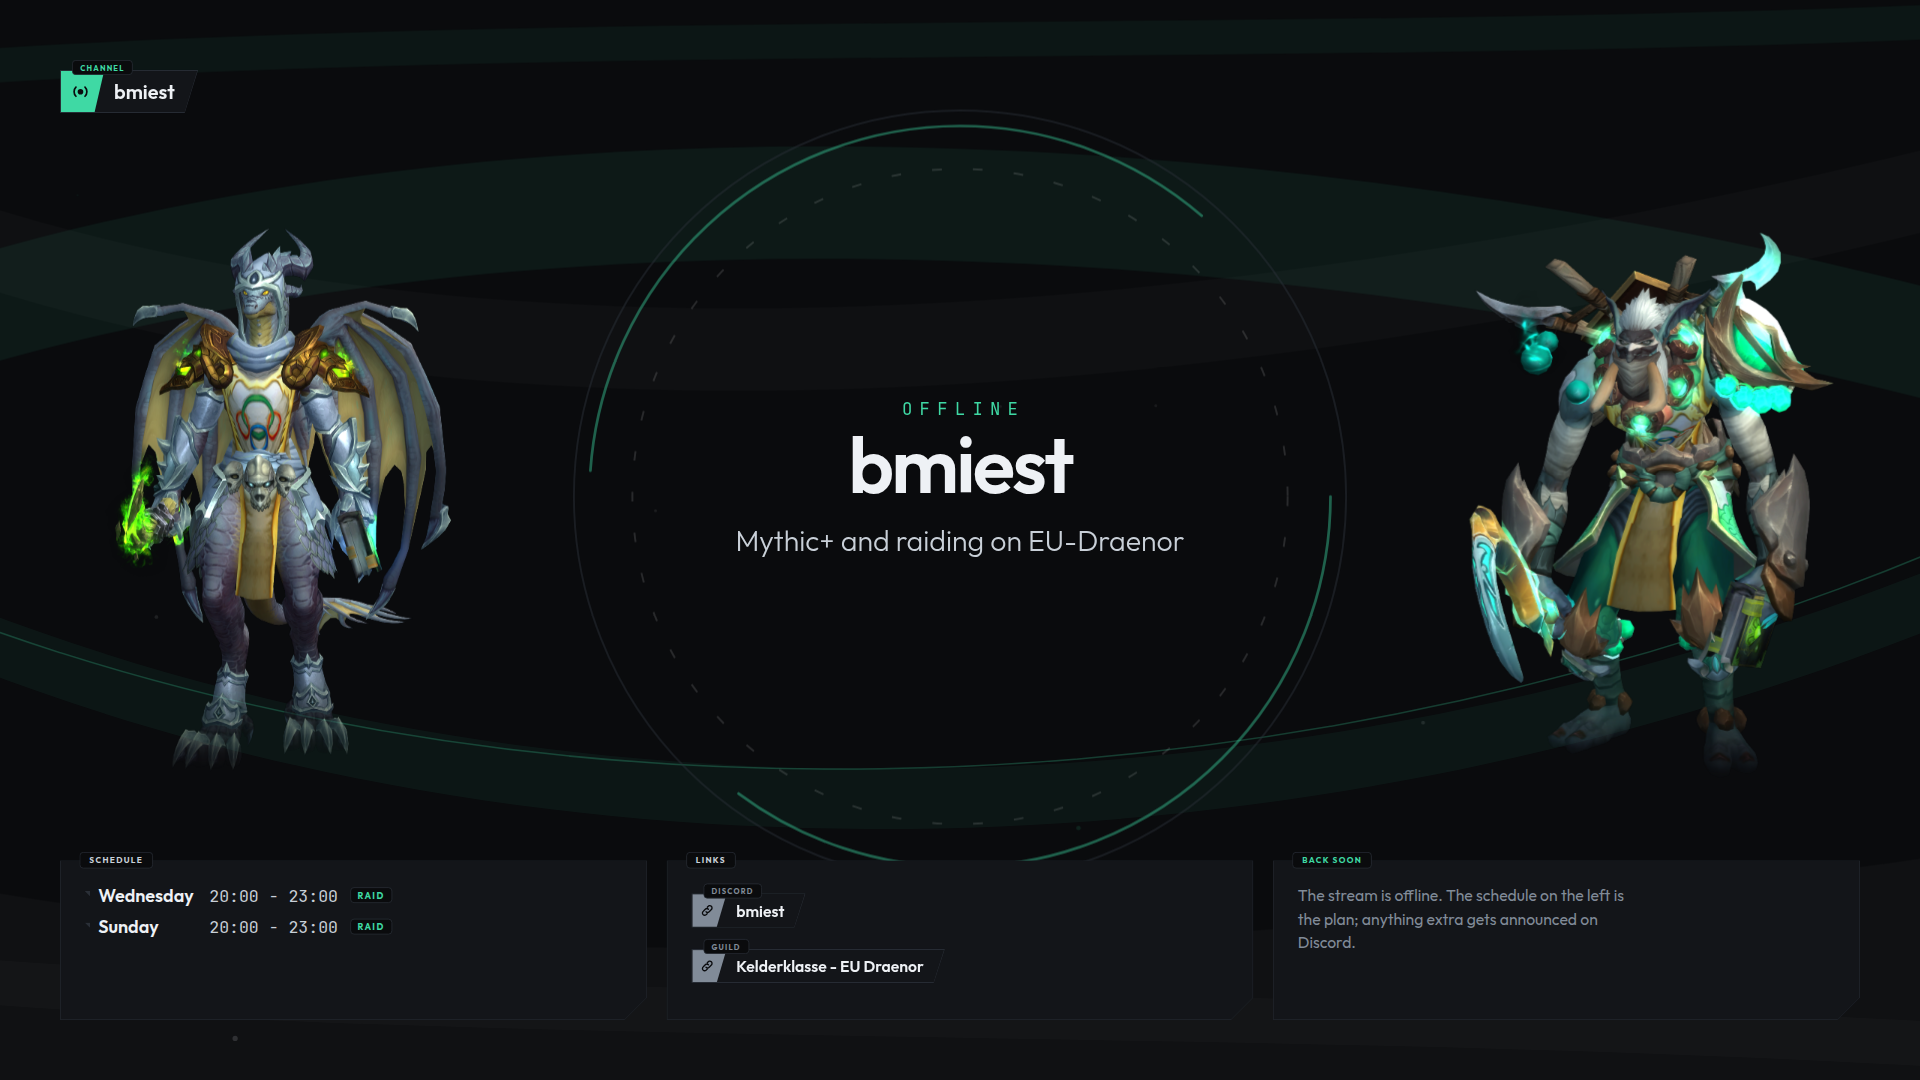
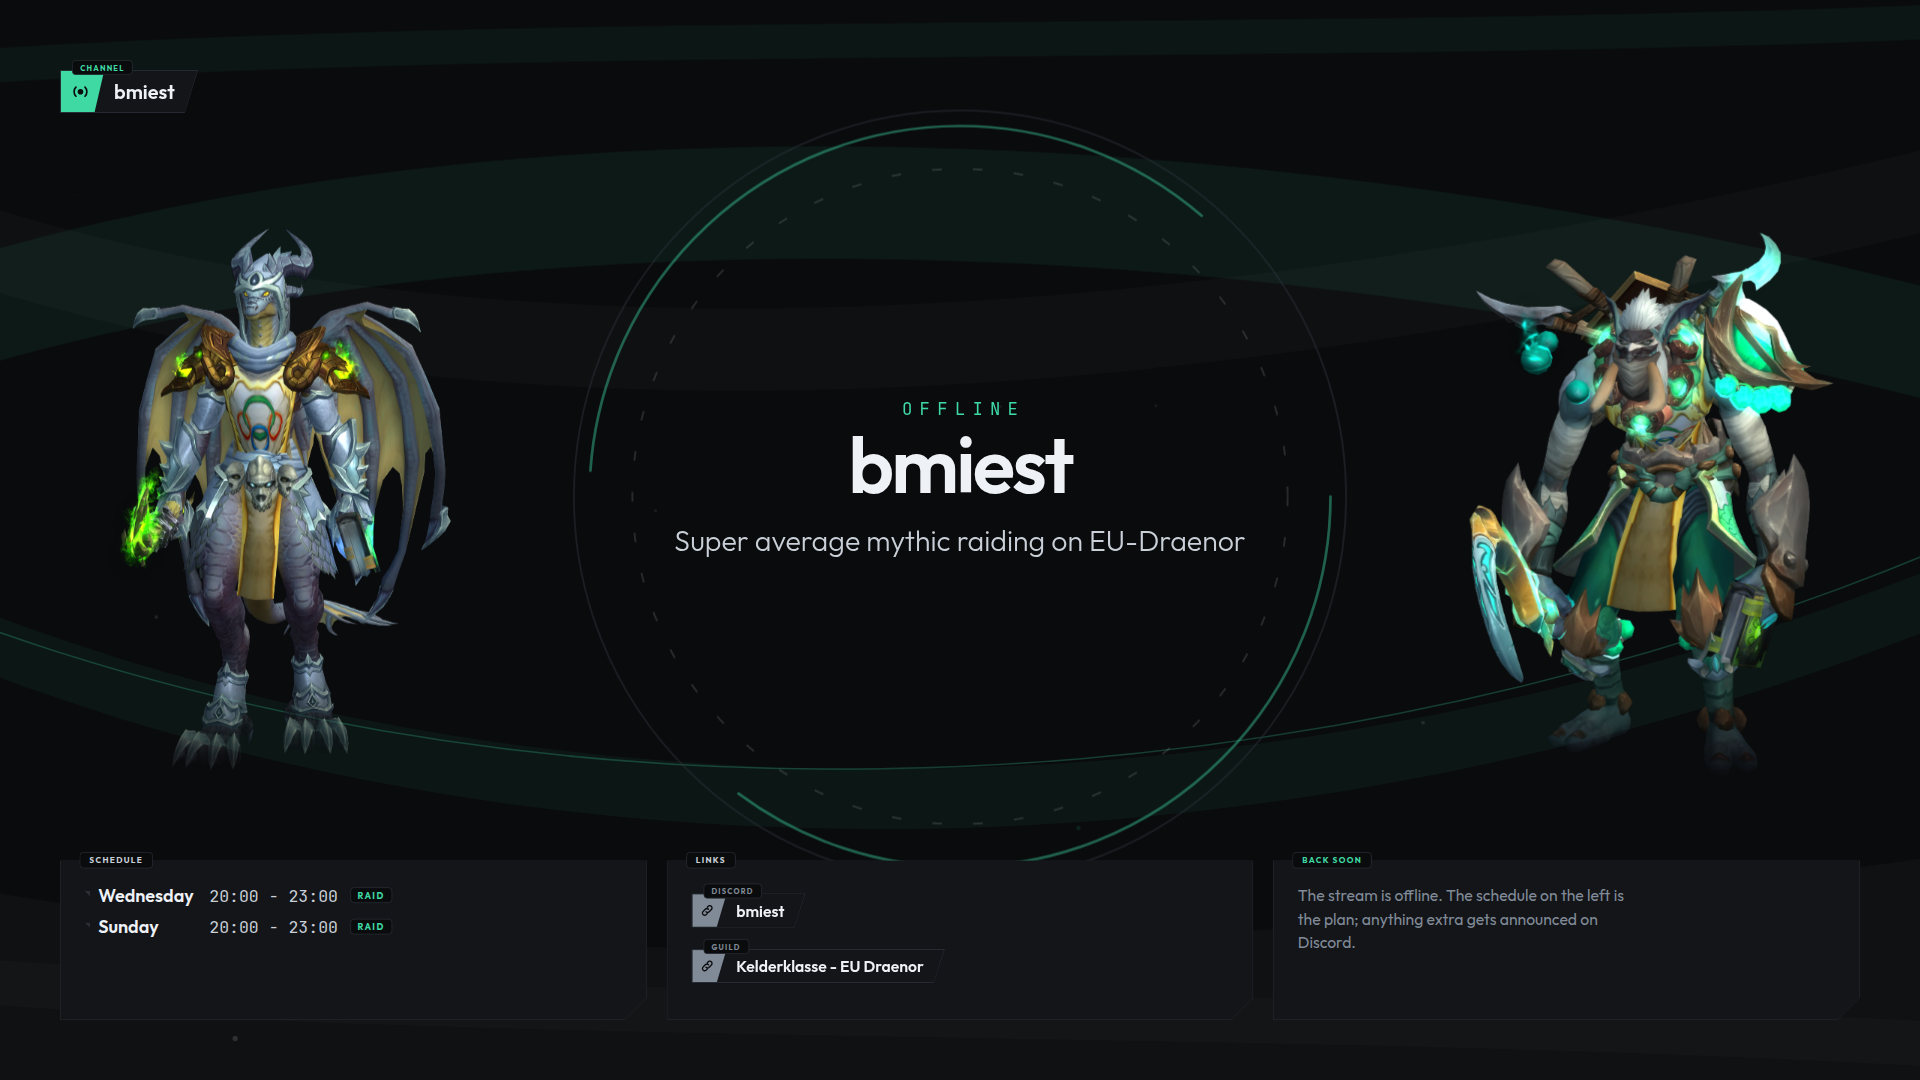
Nieuwe tagline, en de beloning heet priest/monk wig
De tagline voedt beide kanaalgraphics, dus offline.png en
profile-banner.png zijn allebei opnieuw gerenderd.

Claude-Session: https://claude.ai/code/session_01THBMk4rdUHc8cEswxabW42

Changed region(s): [[0.0625, 0.2444, 0.2188, 0.5806], [0.3438, 0.4889, 0.6562, 0.5194]]

diff --git a/config.default.js b/config.default.js
@@ -122,8 +122,8 @@ window.OVERLAY_CONFIG = {
       //
       // Eén trap mag ook: dan is het gewoon een doel met een beloning.
       tiers: [
-        { at:  5, reward: 'priest wig' },
-        { at: 10, reward: 'priest wig', note: 'till end of tier' },
+        { at:  5, reward: 'priest/monk wig' },
+        { at: 10, reward: 'priest/monk wig', note: 'till end of tier' },
       ],
 
       // Plaatje van de beloning, te zien in de melding bij elke sub. Leeg
@@ -218,7 +218,7 @@ window.OVERLAY_CONFIG = {
   // Zelfde tokens en dezelfde ribbons als de overlay, dus je kanaalpagina
   // en je stream lopen niet uit elkaar.
   graphics: {
-    tagline: 'Mythic+ and raiding on EU-Draenor',
+    tagline: 'Super average mythic raiding on EU-Draenor',
 
     // Het infopaneel over de overlay zelf (a=overlay). Geen knop maar een
     // heel paneel: wie op je kanaalpagina doorklikt wil weten wat hij op

diff --git a/README.md b/README.md
@@ -259,7 +259,7 @@ bar inside the follower ribbon itself.
 ### The sub goal
 
 Right of the followers sits a sub counter: `0 / 10`, ten boxes behind it, and
-the next promise on the rim, `priest wig at 5`. Every other ribbon in the bar
+the next promise on the rim, `priest/monk wig at 5`. Every other ribbon in the bar
 reports a number; this one makes a promise. So the tiers, their rewards and
 their terms all come from the config. The overlay does not invent promises on
 your behalf.
@@ -269,8 +269,8 @@ goals: {
   followers: 200,
   subs: {
     tiers: [
-      { at:  5, reward: 'priest wig' },
-      { at: 10, reward: 'priest wig', note: 'till end of tier' },
+      { at:  5, reward: 'priest/monk wig' },
+      { at: 10, reward: 'priest/monk wig', note: 'till end of tier' },
     ],
     source: 'streamelements',
   },
@@ -280,8 +280,8 @@ goals: {
 A goal can have more than one step. The highest tier sets the length of the
 bar; a gold hairline marks where an earlier one falls due. The rim always
 carries the next tier you have not reached, because that is the only one a
-viewer can still do anything about: `priest wig at 5` until the fifth box, then
-`priest wig at 10 · till end of tier`, and `priest wig unlocked · till end of
+viewer can still do anything about: `priest/monk wig at 5` until the fifth box, then
+`priest/monk wig at 10 · till end of tier`, and `priest/monk wig unlocked · till end of
 tier` once it is all in. Boxes for a tier you already won turn gold, so what is
 banked and what you are working on are two different colours. One tier is fine
 too, and then it is simply a goal with a reward.
@@ -290,7 +290,7 @@ Up to a target of twelve the bar is a row of boxes instead of a fill. You can
 count boxes; a bar sitting at 60% you have to work out. Above twelve it falls
 back to the same fill the follower goal uses, because twenty boxes is twenty
 hairlines. When the last box lights
-up the rim turns gold and reads `priest wig unlocked`, and then holds still.
+up the rim turns gold and reads `priest/monk wig unlocked`, and then holds still.
 No pulse, no glow: that ribbon is in frame all stream, and anything that keeps
 moving costs bitrate the gameplay needs.
 
